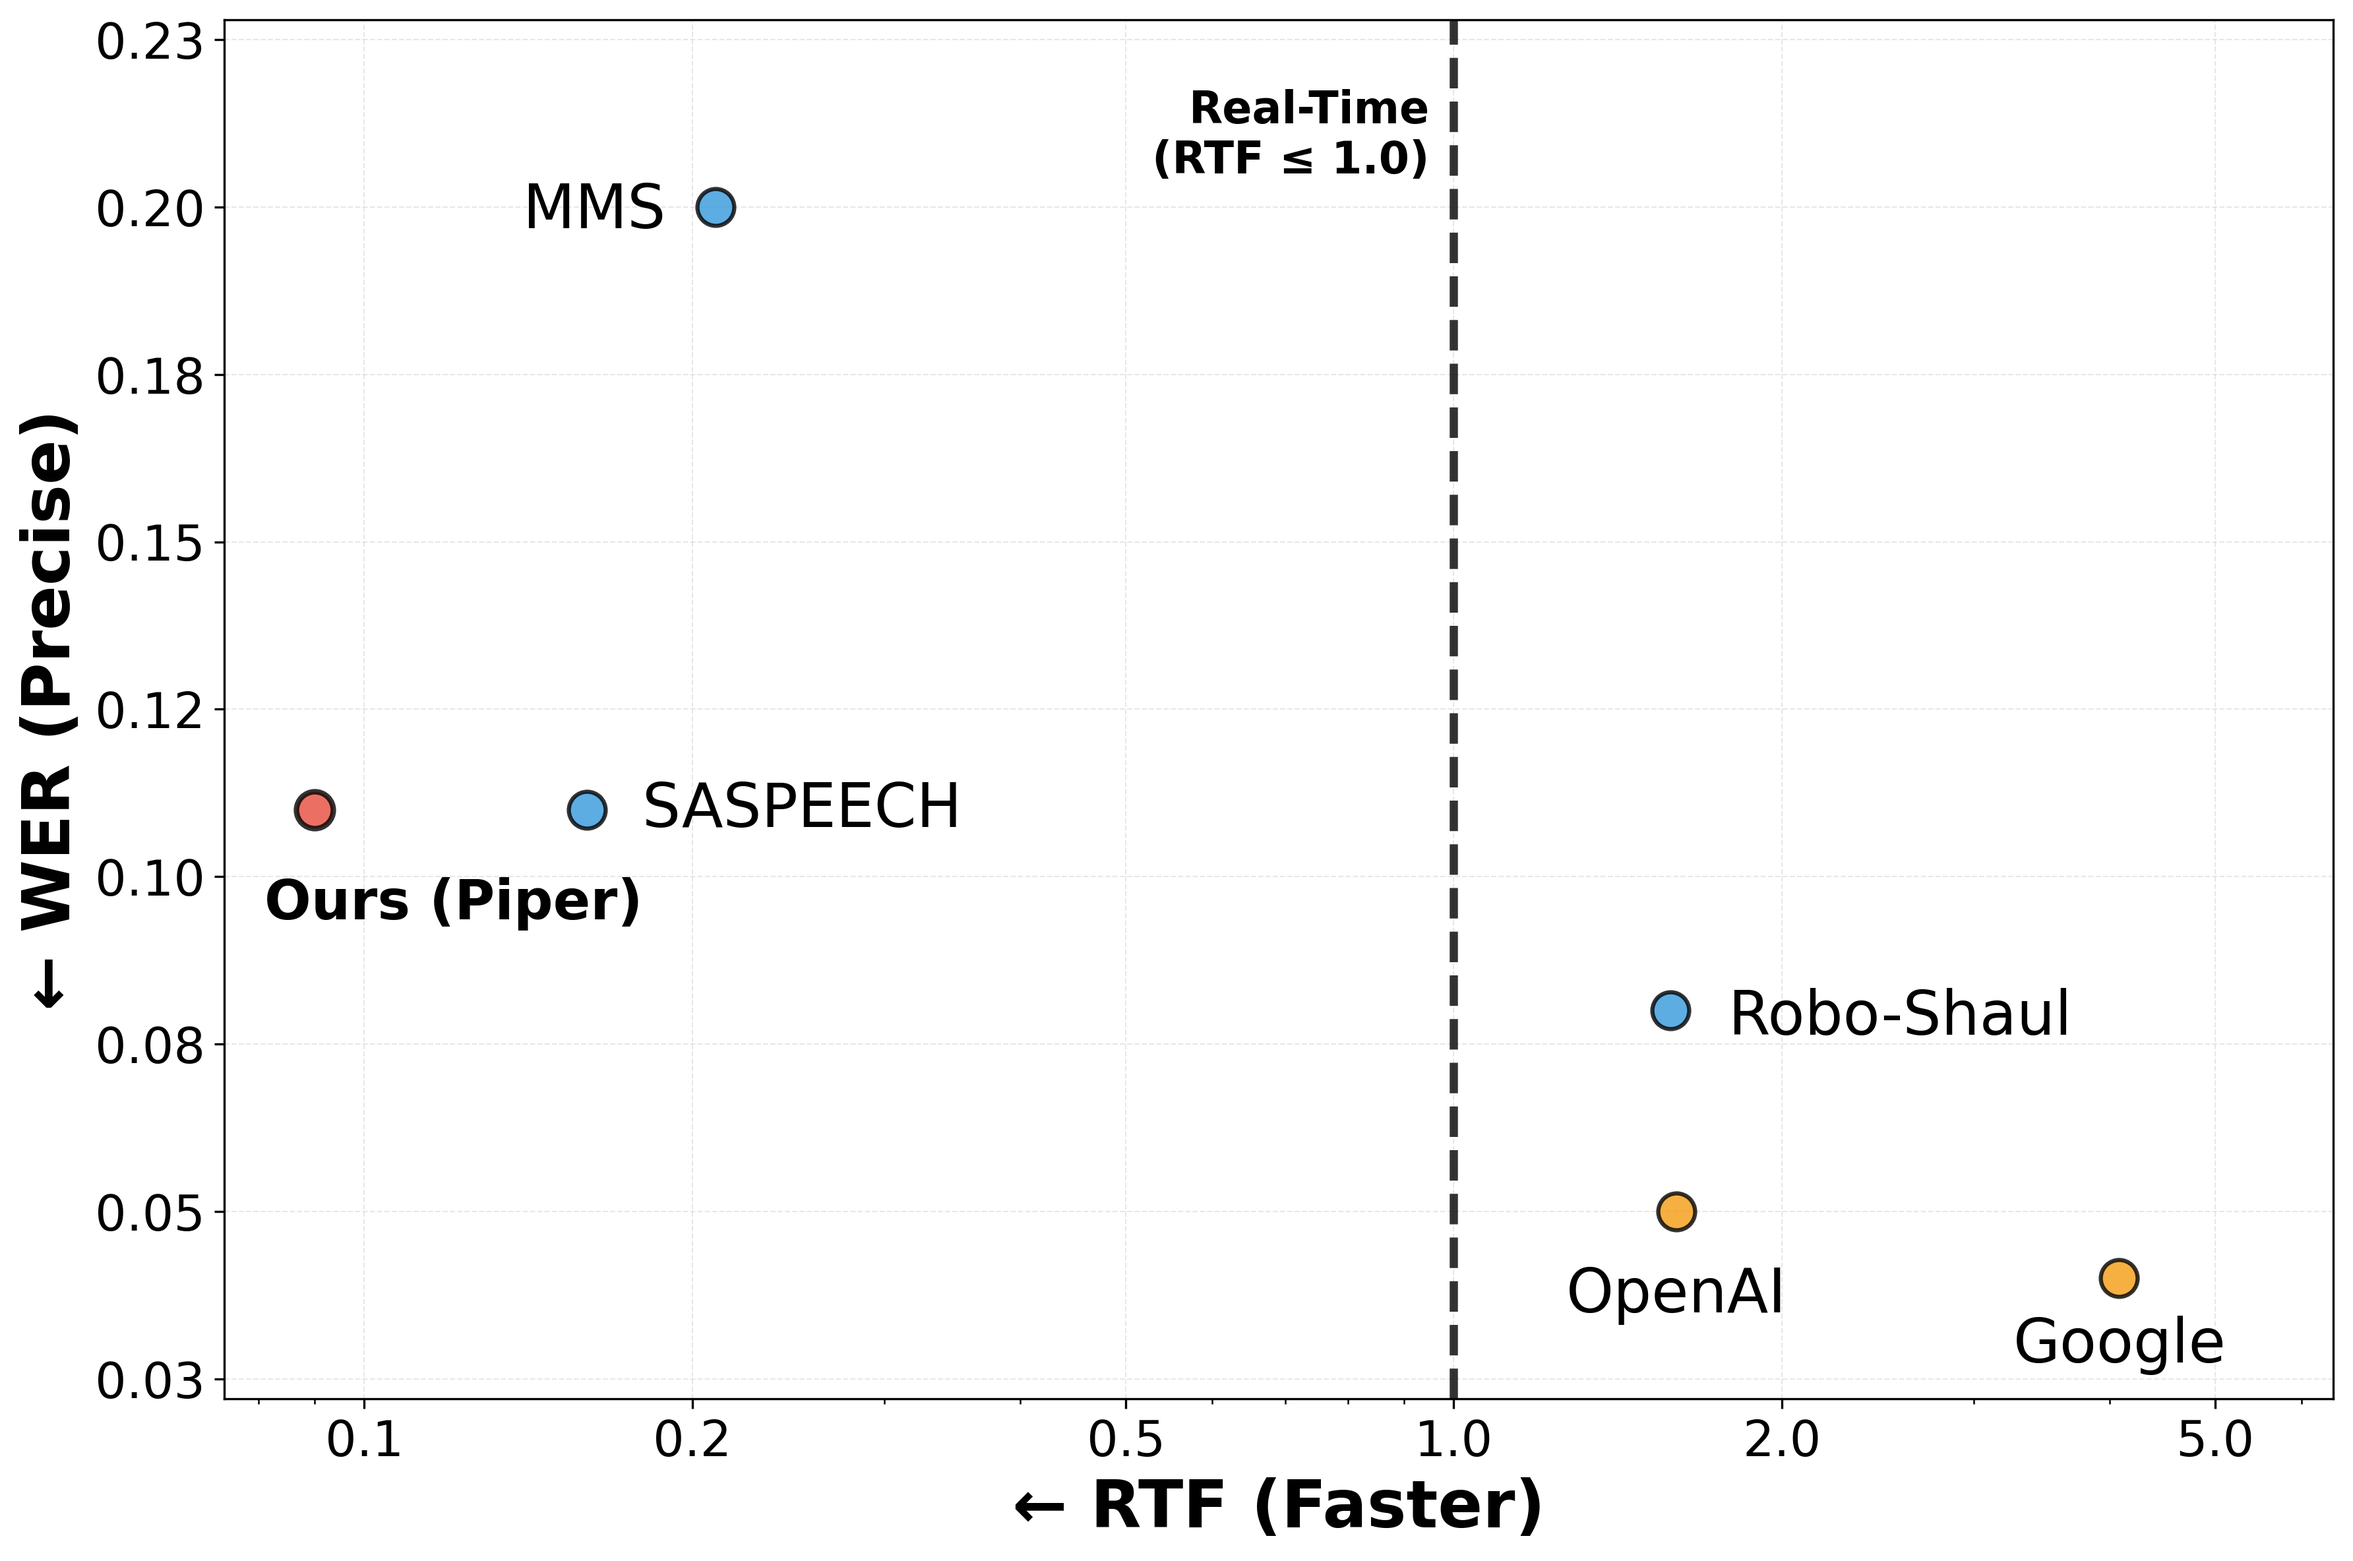
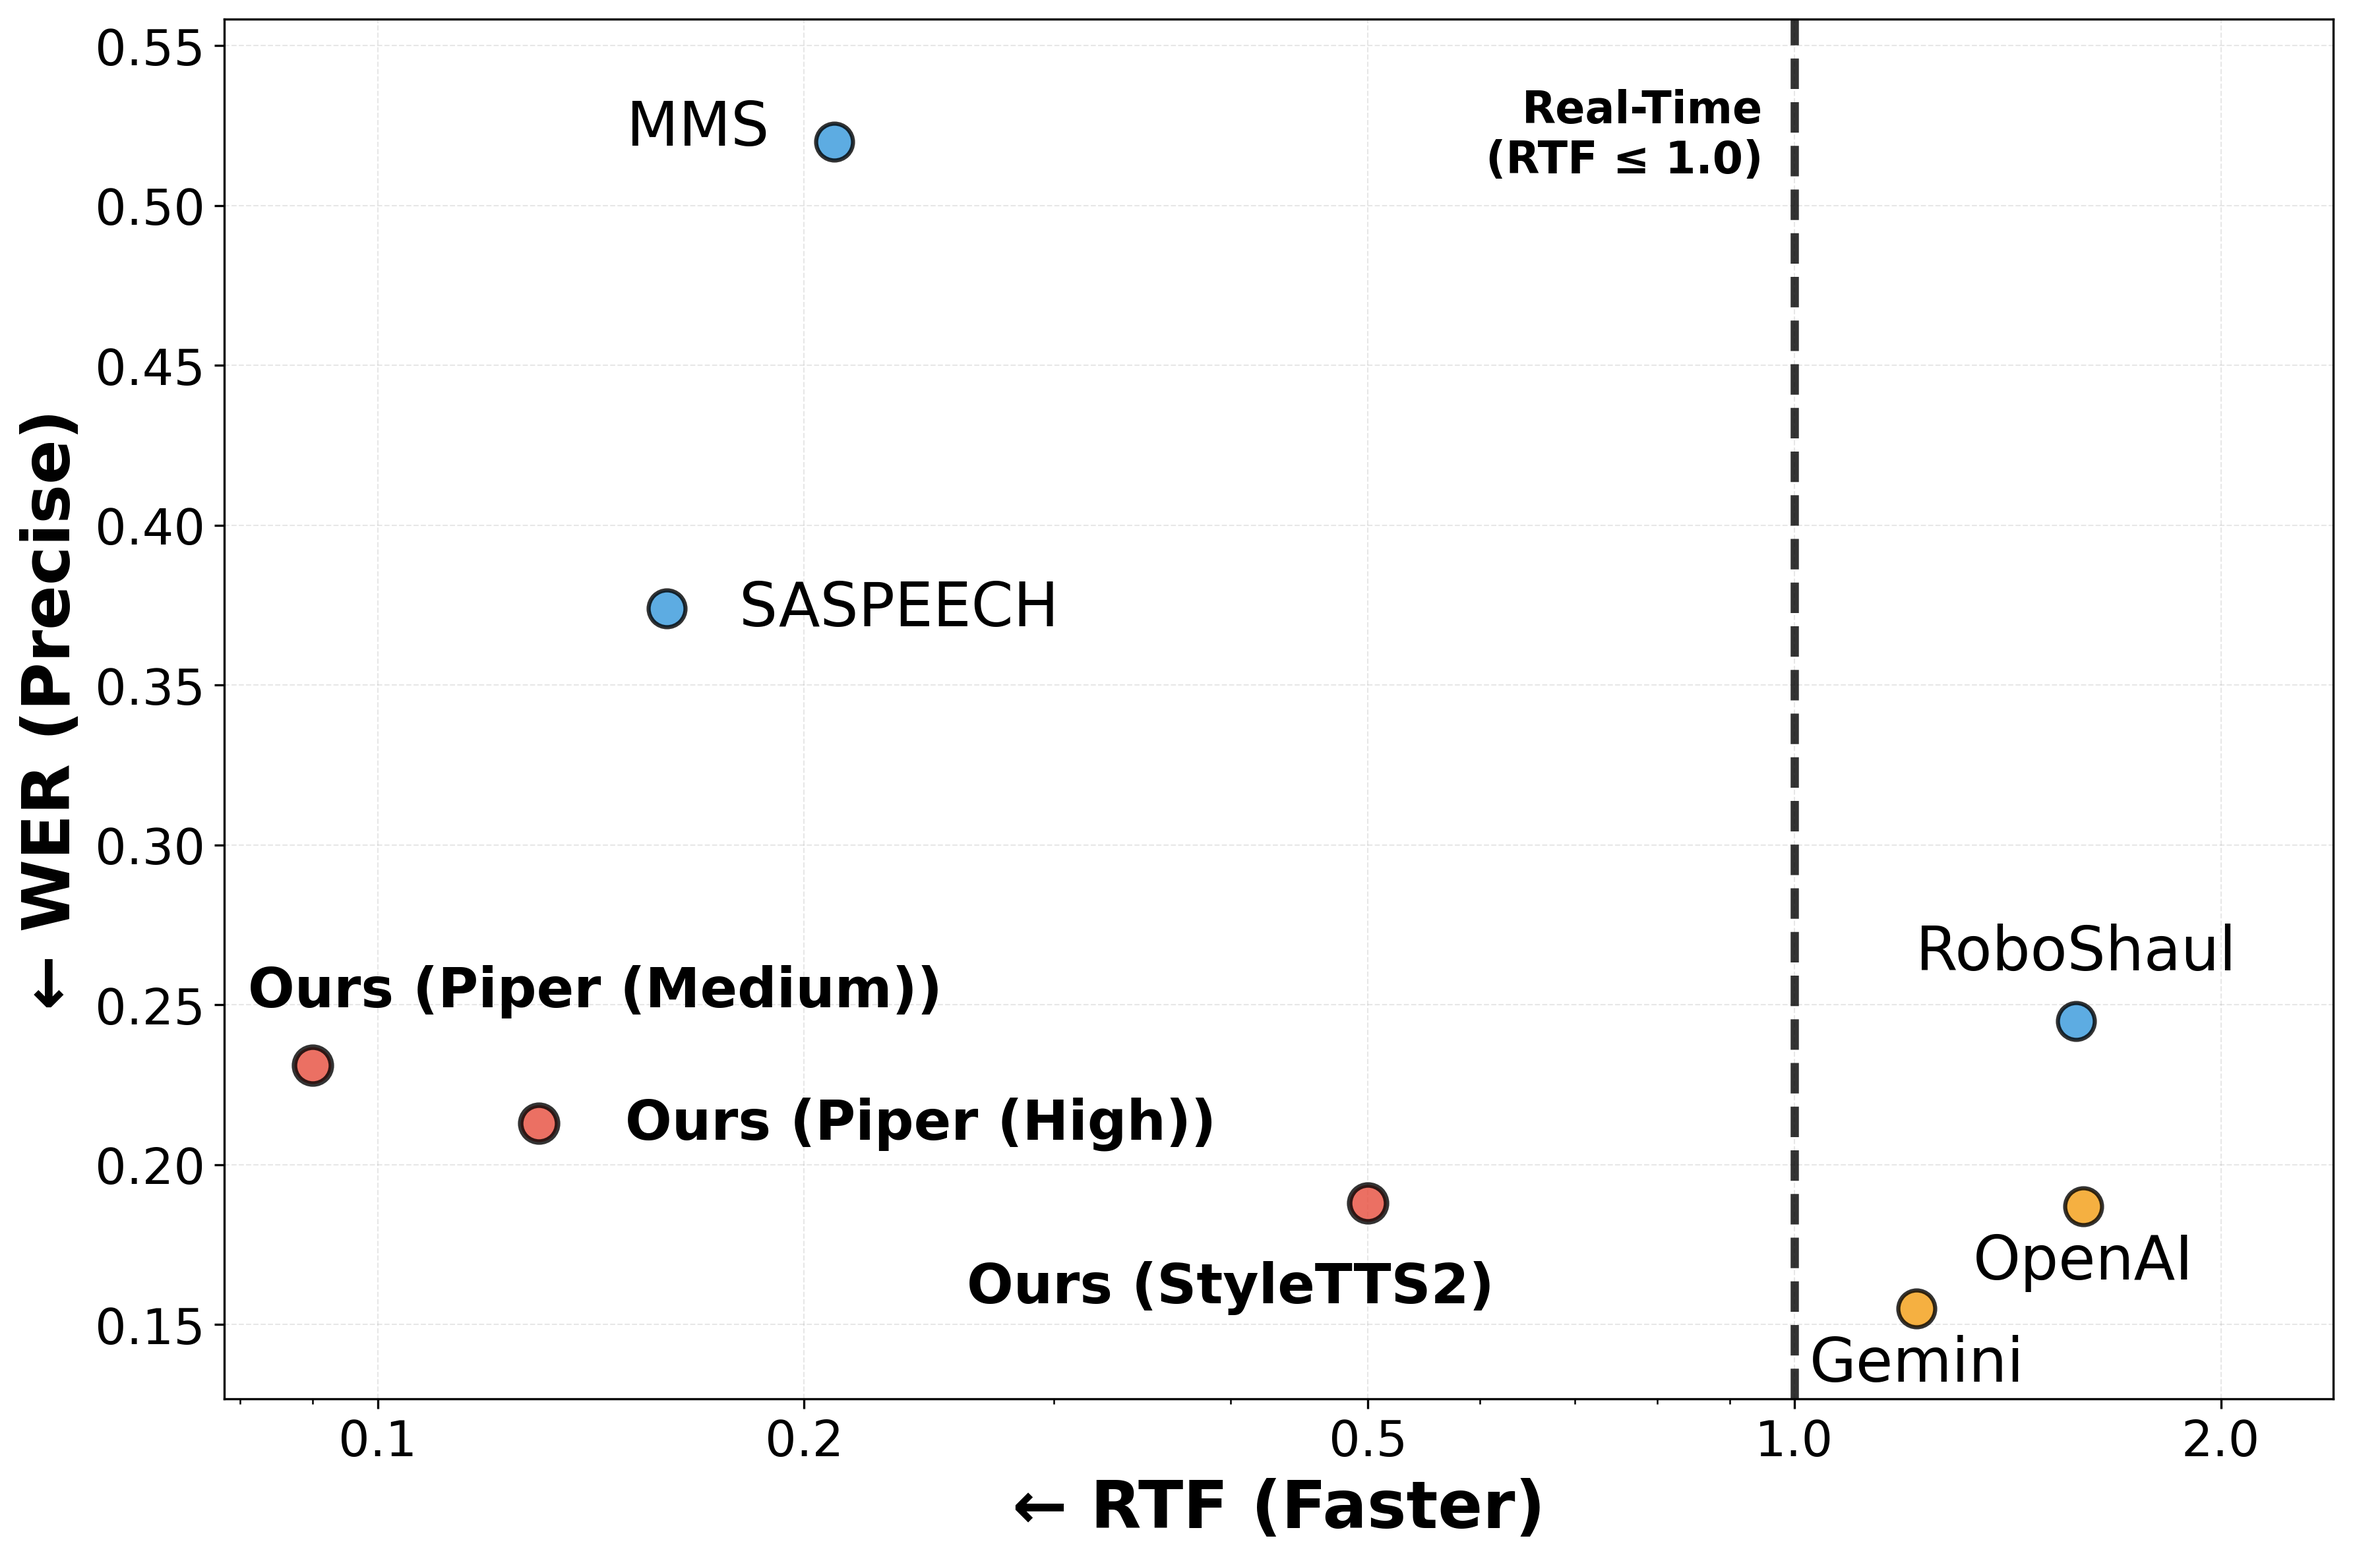
Update WER plot data and adjust text positioning for improved visualization

diff --git a/media/wer_plot.py b/media/wer_plot.py
@@ -7,15 +7,14 @@ import matplotlib.ticker as ticker
 
 # Data for the models
 models = [
-    ("Piper", 0.11, 0.09, "Ours"),
-    # ("StyleTTS2", 0.07, 0.50, "Ours"),
-    # ("HebTTS", 0.24, 25.44, "Open"),
-    # ("LoTHM", 0.49, 84.75, "Open"),
-    ("MMS", 0.20, 0.21, "Open"),
-    ("SASPEECH", 0.11, 0.16, "Open"),
-    ("Robo-Shaul", 0.08, 1.58, "Open"),
-    ("Google", 0.04, 4.08, "Proprietary"),
-    ("OpenAI", 0.05, 1.60, "Proprietary"),
+    ("Piper (Medium)", 0.231, 0.09, "Ours"),
+    ("Piper (High)", 0.213, 0.13, "Ours"),
+    ("StyleTTS2", 0.188, 0.50, "Ours"),
+    ("MMS", 0.520, 0.21, "Open"),
+    ("SASPEECH", 0.374, 0.16, "Open"),
+    ("RoboShaul", 0.245, 1.58, "Open"),
+    ("Gemini", 0.155, 1.22, "Proprietary"),
+    ("OpenAI", 0.187, 1.60, "Proprietary"),
 ]
 
 # Filter out models with None values for WER or RTF
@@ -46,7 +45,22 @@ for name, wer, rtf, category in filtered:
                         linewidths=edgewidth, zorder=3, alpha=0.8)
 
     # Adjust text position for each model
-    if name == "HebTTS":
+    if name == "Piper (Medium)":
+        x_text = rtf * 0.9
+        y_text = wer + 0.015
+        ha = 'left'
+        va = 'bottom'
+    elif name == "Piper (High)":
+        x_text = rtf * 1.15
+        y_text = wer
+        ha = 'left'
+        va = 'center'
+    elif name == "Gemini":
+        x_text = rtf
+        y_text = wer - 0.008
+        ha = 'center'
+        va = 'top'
+    elif name == "HebTTS":  
         x_text = rtf * 0.75
         y_text = wer
         ha = 'right'
@@ -66,11 +80,11 @@ for name, wer, rtf, category in filtered:
         y_text = wer - 0.008
         ha = 'center'
         va = 'top'
-    elif name == "Robo-Shaul":
-        x_text = rtf + 0.208
-        y_text = wer - 0.001
-        ha = 'left'
-        va = 'center'
+    elif name == "RoboShaul":
+        x_text = rtf
+        y_text = wer + 0.012
+        ha = 'center'
+        va = 'bottom'
     elif name == "Piper":
         x_text = rtf * 0.9
         y_text = wer  - 0.010
@@ -78,7 +92,7 @@ for name, wer, rtf, category in filtered:
         va = 'top'
     elif name == "StyleTTS2":
         x_text = rtf * 0.8
-        y_text = wer - 0.01
+        y_text = wer - 0.018
         ha = 'center'
         va = 'top'
     elif name == "SASPEECH":
